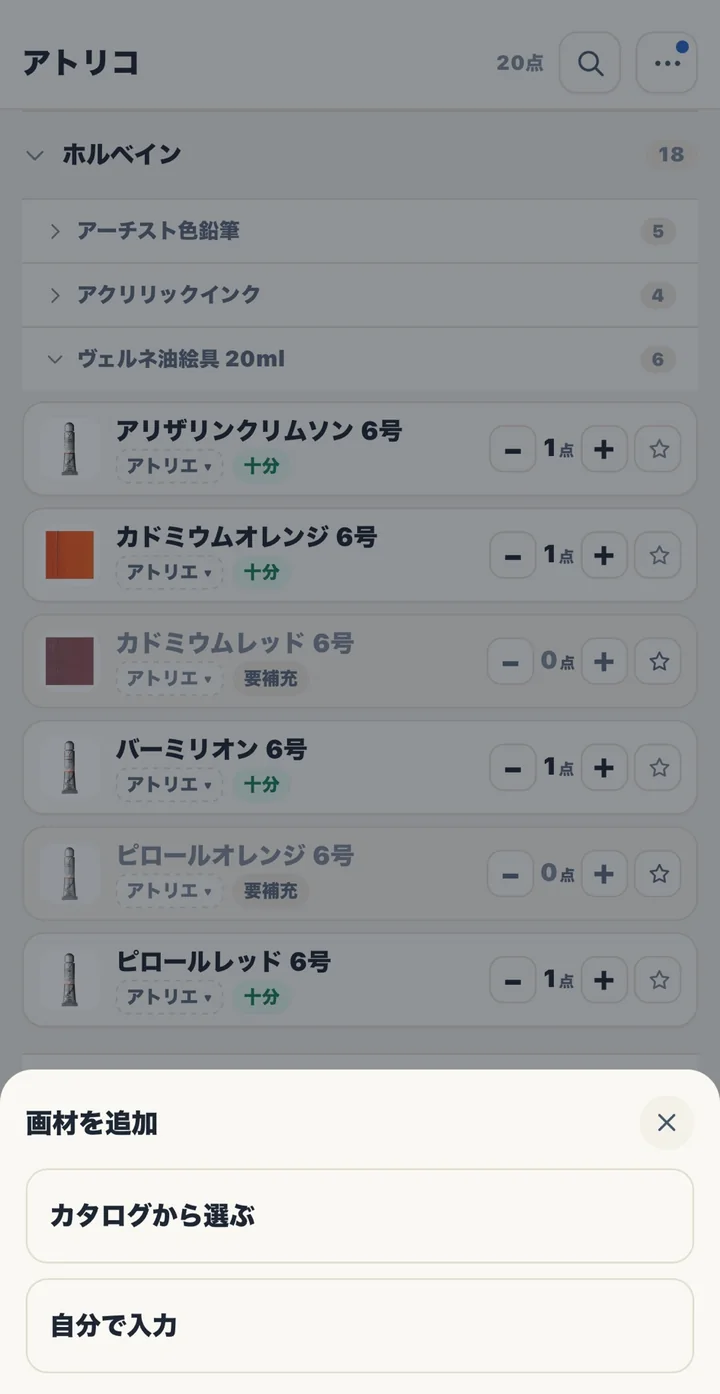
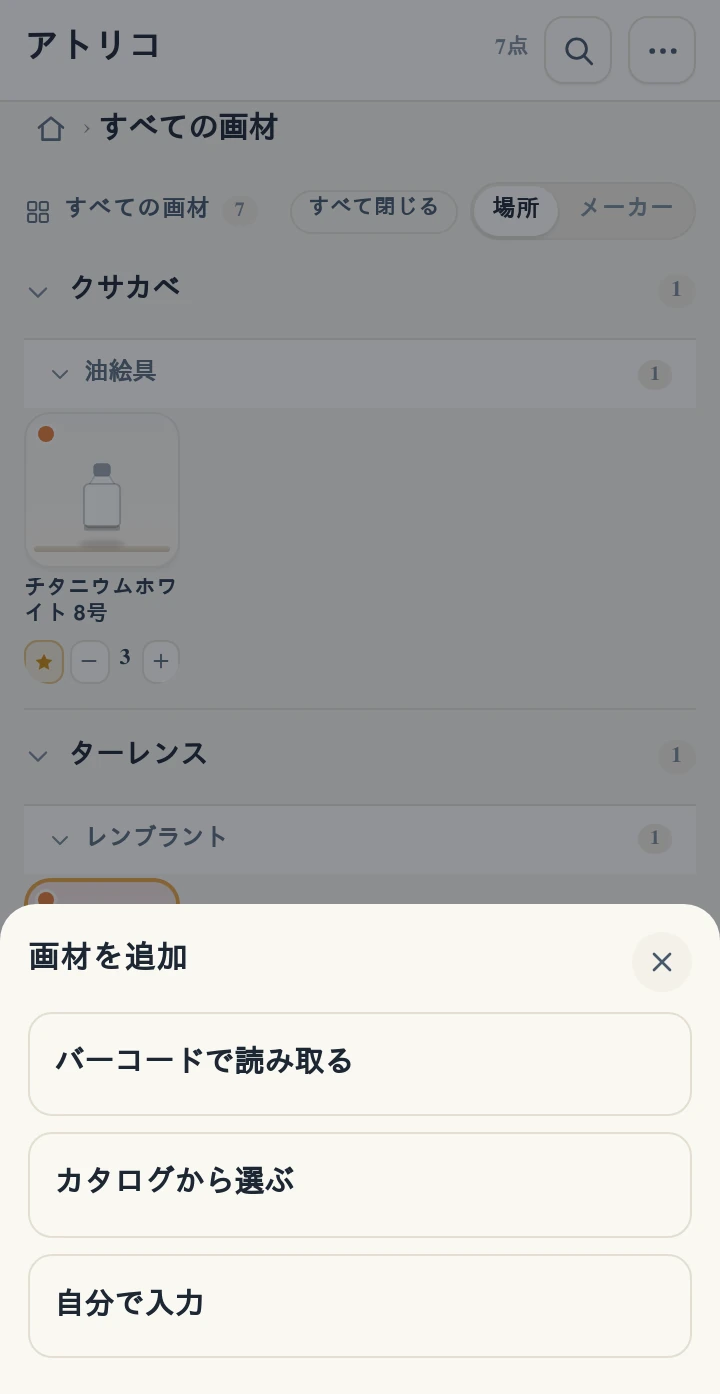
feat: 「画材を追加」の最上段にバーコードで読み取るを追加し、使い方の写真と説明を3択に（v1.41.0）
- ＋のシートの先頭に「バーコードで読み取る」。押すとシートを閉じ、右下の読取ボタンと同じ beginScan でカメラを開く（登録先フォルダも同じ）
- 使い方（stock-3）の説明を3択に更新し、画面写真を3択の版に撮り直し
- 版を v1.41.0 / Service Worker のキャッシュを v64 に

diff --git a/tests/add-scan-entry.test.js b/tests/add-scan-entry.test.js
@@ -1,0 +1,76 @@
+/**
+ * 「＋」の「画材を追加」シートに、バーコード読取の項目を足した（v1.41.0）。
+ *
+ * 見たいこと:
+ *   1. シートの最上段に「バーコードで読み取る」があり、既存の2択と同じ文字だけのボタン
+ *   2. 押すとシートを閉じてから、右下の読取ボタンと同じ処理（beginScan）でカメラが開く
+ *   3. チュートリアル（stock-3）の説明が3択に合っている
+ */
+import test from 'node:test';
+import assert from 'node:assert/strict';
+import fs from 'node:fs';
+import path from 'node:path';
+import { fileURLToPath } from 'node:url';
+import { TUTORIAL_TABS } from '../tutorial.js';
+
+const ROOT = path.resolve(path.dirname(fileURLToPath(import.meta.url)), '..');
+const read = (name) => fs.readFileSync(path.join(ROOT, name), 'utf8');
+const html = read('index.html');
+const app = read('app.js');
+const EMOJI = /[\u{1F000}-\u{1FAFF}\u{2600}-\u{27BF}\u{FE0F}]/u;
+
+const sheet = html.slice(html.indexOf('id="sheetAdd"'), html.indexOf('id="sheetMore"'));
+const listStart = sheet.indexOf('<div class="menulist">');
+const list = sheet.slice(listStart, sheet.indexOf('</div>', listStart));
+
+test('「画材を追加」シートの最上段に「バーコードで読み取る」がある（3択・上から順に）', () => {
+  const labels = [...list.matchAll(/<button type="button" class="menubtn" id="(btnAdd\w+)">([^<]*)<\/button>/g)]
+    .map((m) => [m[1], m[2]]);
+  assert.deepEqual(labels, [
+    ['btnAddScan', 'バーコードで読み取る'],
+    ['btnAddCatalog', 'カタログから選ぶ'],
+    ['btnAddManual', '自分で入力'],
+  ]);
+  // 追加の1行だけ（アイコン・補足は足さない。既存2択と同じ、文字だけのボタン）
+  assert.equal(/<svg|<small/.test(list), false, 'バーコードの項目にアイコン・補足が付いている');
+  assert.equal(EMOJI.test(list), false, '追加メニューに絵文字がある');
+  // シートの見出し・閉じるはこれまでどおり
+  assert.match(sheet, /<h2 id="addTitle">画材を追加/);
+  assert.match(sheet, /data-close="sheetAdd"/);
+});
+
+test('押すと「画材を追加」シートを閉じて、右下の読取ボタンと同じ処理でカメラを開く', () => {
+  const handler = /\$\('btnAddScan'\)\.addEventListener\('click', \(\) => \{([\s\S]{0,300}?)\n\}\);/.exec(app);
+  assert.ok(handler, 'バーコードの項目に、押したときの処理がない');
+  const body = handler[1];
+  assert.match(body, /closeSheet\('sheetAdd'\);/);
+  assert.match(body, /beginScan\(\);/);
+  assert.ok(
+    body.indexOf("closeSheet('sheetAdd')") < body.indexOf('beginScan()'),
+    'シートを閉じる前にカメラを開いている',
+  );
+
+  // 右下の読取ボタンと同じ beginScan を通る（置き場所＝いま見ているフォルダの決め方も同じ）
+  assert.match(app, /\$\('btnScan'\)\.addEventListener\('click', beginScan\);/);
+  const begin = /function beginScan\(\) \{([\s\S]*?)\n\}/.exec(app);
+  assert.ok(begin, 'beginScan（読取の共通処理）がない');
+  for (const step of [
+    /openSheet\('sheetScan'\)/, /resetScanSession\(scanSession\)/, /clearScanLog\(\)/,
+    /renderScanMode\(\)/, /startScanner\(\)/,
+  ]) {
+    assert.match(begin[1], step, '読取の共通処理に、これまでの手順が抜けている');
+  }
+  // シートを移るときは、前のシートを閉じてから次を開く（背景の暗幕が残らない）
+  assert.match(app, /function closeSheet\(id\) \{[\s\S]{0,220}openSheets\.delete\(id\);/);
+});
+
+test('チュートリアル（stock-3）の説明が3択に合っている', () => {
+  const slide = TUTORIAL_TABS.find((tab) => tab.id === 'stock').slides.find((s) => /stock-3\.webp$/.test(s.image));
+  assert.ok(slide, 'stock-3 のスライドがない');
+  for (const label of ['バーコードで読み取る', 'カタログから選ぶ', '自分で入力']) {
+    assert.ok(slide.caption.includes(label), `説明文に「${label}」がない: ${slide.caption}`);
+    assert.ok(slide.alt.includes(label), `alt に「${label}」がない: ${slide.alt}`);
+  }
+  assert.equal(/2択/.test(slide.caption + slide.alt), false, '2択のままになっている');
+  assert.ok(slide.caption.length <= 60, `説明が長い（${slide.caption.length}文字）`);
+});

diff --git a/tests/ui-tidy-v1_26.test.js b/tests/ui-tidy-v1_26.test.js
@@ -1,7 +1,8 @@
 /**
  * 画面の小さな整理（v1.26.0）。
  *
- *   1) 右下の「＋」は、いきなり入力シートを開かず「カタログから選ぶ / 自分で入力」の2択を出す
+ *   1) 右下の「＋」は、いきなり入力シートを開かず「バーコードで読み取る / カタログから選ぶ / 自分で入力」の3択を出す
+ *      （バーコードはv1.41.0で最上段に追加）
  *   2) ヘッダーの「全○種」は出さない
  *   3) 右上の虫眼鏡と⋯は「在庫」タブのときだけ
  *   4) パンくずのフォルダ名は読みやすい大きさ（15px）にする
@@ -19,26 +20,33 @@ const app = read('app.js');
 const html = read('index.html');
 const css = read('styles.css');
 
-/* ---------------- 1) ＋の2択メニュー ---------------- */
+/* ---------------- 1) ＋の3択メニュー ---------------- */
 
-test('「＋」は2択メニューを出し、カタログへ移る／入力シートを開くを選べる', () => {
+test('「＋」は3択メニューを出し、バーコード・カタログ・入力シートを選べる', () => {
   const sheet = html.slice(html.indexOf('id="sheetAdd"'), html.indexOf('id="sheetMore"'));
   assert.ok(sheet, '追加メニューのシートがありません');
   assert.match(sheet, /role="dialog"/);
   assert.match(sheet, /<div class="menulist">/);
+  // バーコードがいちばん上（追加のしかたの先頭）
+  assert.match(sheet, /<div class="menulist">\s*<button type="button" class="menubtn" id="btnAddScan">バーコードで読み取る<\/button>/);
   assert.match(sheet, /<button type="button" class="menubtn" id="btnAddCatalog">カタログから選ぶ<\/button>/);
   assert.match(sheet, /<button type="button" class="menubtn" id="btnAddManual">自分で入力<\/button>/);
+  // 並びは バーコード → カタログ → 自分で入力
+  assert.ok(sheet.indexOf('btnAddScan') < sheet.indexOf('btnAddCatalog'), 'バーコードがカタログより上にない');
+  assert.ok(sheet.indexOf('btnAddCatalog') < sheet.indexOf('btnAddManual'), 'カタログが自分で入力より上にない');
   // 閉じるボタンと背景タップ（#mask）で閉じられる
   assert.match(sheet, /data-close="sheetAdd"/);
   const mask = app.slice(app.indexOf("$('mask').addEventListener('click'"));
   assert.match(mask, /\[\.\.\.openSheets\]\.forEach\(closeSheet\)/);
-  // 余計な説明文・絵文字は入れない（ボタンの2行だけ）
+  // 余計な説明文・絵文字は入れない（ボタンの3行だけ）
   assert.equal(/[\u{1F000}-\u{1FAFF}\u{2600}-\u{27BF}\u{FE0F}]/u.test(sheet), false, '追加メニューに絵文字がある');
-  assert.equal((sheet.match(/<button/g) || []).length, 3, 'ボタンは 閉じる・2択 の3つだけ');
+  assert.equal((sheet.match(/<button/g) || []).length, 4, 'ボタンは 閉じる・3択 の4つだけ');
 
   // 押したときの動き
   assert.match(app, /\$\('btnAdd'\)\.addEventListener\('click', \(\) => openSheet\('sheetAdd'\)\);/);
   assert.equal(/btnAdd'\)\.addEventListener\('click', \(\) => openItemSheet/.test(app), false, '＋が直接シートを開いている');
+  // バーコードは、シートを閉じてから読取を始める（右下の読取ボタンと同じ処理）
+  assert.match(app, /\$\('btnAddScan'\)\.addEventListener\('click', \(\) => \{[\s\S]{0,140}closeSheet\('sheetAdd'\);[\s\S]{0,80}beginScan\(\);/);
   assert.match(app, /\$\('btnAddCatalog'\)\.addEventListener\('click', \(\) => \{[\s\S]{0,120}closeSheet\('sheetAdd'\);[\s\S]{0,80}selectTab\('catalog'\);/);
   assert.match(app, /\$\('btnAddManual'\)\.addEventListener\('click', \(\) => \{[\s\S]{0,120}closeSheet\('sheetAdd'\);[\s\S]{0,80}openItemSheet\(null\);/);
   // タブ切り替えは1か所（下タブも同じ処理を通る）

diff --git a/index.html b/index.html
@@ -15,7 +15,7 @@ try {
 } catch (e) { /* 保存が読めないときはライト */ }
 </script>
 <link rel="manifest" href="manifest.webmanifest">
-<link rel="stylesheet" href="styles.css?v=1.40.1">
+<link rel="stylesheet" href="styles.css?v=1.41.0">
 <link rel="icon" href="icon.svg" type="image/svg+xml">
 <link rel="apple-touch-icon" href="apple-touch-icon.png">
 </head>
@@ -372,10 +372,11 @@ try {
   <button data-tab="settings" aria-selected="false">設定</button>
 </nav>
 
-<!-- 右下の＋（追加のしかたを2つから選ぶ） -->
+<!-- 右下の＋（追加のしかたを3つから選ぶ。バーコードをいちばん上に） -->
 <div class="sheet" id="sheetAdd" role="dialog" aria-modal="true" aria-labelledby="addTitle">
   <h2 id="addTitle">画材を追加<button class="close" data-close="sheetAdd" aria-label="閉じる"><svg class="ic" aria-hidden="true"><use href="#i-close"/></svg></button></h2>
   <div class="menulist">
+    <button type="button" class="menubtn" id="btnAddScan">バーコードで読み取る</button>
     <button type="button" class="menubtn" id="btnAddCatalog">カタログから選ぶ</button>
     <button type="button" class="menubtn" id="btnAddManual">自分で入力</button>
   </div>
@@ -689,7 +690,7 @@ try {
 
 <div class="toast" id="toast" role="status" aria-live="polite"></div>
 <!-- 動きのライブラリは同梱（CDNから読まない）。app.js より先に読んで window.gsap を用意する -->
-<script src="vendor/gsap.min.js?v=1.40.1"></script>
-<script type="module" src="app.js?v=1.40.1"></script>
+<script src="vendor/gsap.min.js?v=1.41.0"></script>
+<script type="module" src="app.js?v=1.41.0"></script>
 </body>
 </html>

diff --git a/app.js b/app.js
@@ -2762,6 +2762,12 @@ $('btnAddManual').addEventListener('click', () => {
   closeSheet('sheetAdd');
   openItemSheet(null);
 });
+// 「バーコードで読み取る」は、シートを閉じてから右下の読取ボタンと同じ流れでカメラを開く
+// （登録先のフォルダも、右下から読んだときと同じ＝いま見ている場所）
+$('btnAddScan').addEventListener('click', () => {
+  closeSheet('sheetAdd');
+  beginScan();
+});
 
 // 空の一覧の「サンプルを入れる」・設定の「サンプルを入れる／消す」（ボタンは描き直されるので文書全体で受ける）
 document.addEventListener('click', (e) => {
@@ -3385,14 +3391,19 @@ let scanSwitchBusy = false; // カメラ切り替えの再起動中
 const SCAN_STOP_TIMEOUT_MS = 800; // スキャナの停止を待つ上限（止まらないときに詰まらせない）
 const SCAN_LOG_MAX = 5;     // 画面に出す直近件数
 
-$('btnScan').addEventListener('click', () => {
+/**
+ * バーコード読取を始める（右下の読取ボタンと「＋」の「バーコードで読み取る」の共通処理）。
+ * シートを開いてからカメラを起動するので、置き場所（フォルダ）もいつもと同じになる。
+ */
+function beginScan() {
   openSheet('sheetScan');
   $('manualJan').value = '';
   resetScanSession(scanSession);
   clearScanLog();
   renderScanMode();
   startScanner();
-});
+}
+$('btnScan').addEventListener('click', beginScan);
 $('btnRescan').addEventListener('click', () => { stopScanner(); startScanner(); });
 
 /* --- カメラの内／外切り替え（連続スキャンの状態とログはそのまま） --- */

diff --git a/tutorial.js b/tutorial.js
@@ -57,8 +57,8 @@ export const TUTORIAL_TABS = [
       },
       {
         image: `${TUTORIAL_ASSET_DIR}/stock-3.webp`,
-        alt: '＋を押したときに出る「カタログから選ぶ」と「自分で入力」の2択',
-        caption: '＋を押すと「カタログから選ぶ」か「自分で入力」を選べます。',
+        alt: '＋を押したときに出る「バーコードで読み取る」「カタログから選ぶ」「自分で入力」の3択',
+        caption: '＋を押すと「バーコードで読み取る」「カタログから選ぶ」「自分で入力」から選べます。',
         focus: FOCUS.bottom,
         ...SHOT,
       },

diff --git a/tests/theme.test.js b/tests/theme.test.js
@@ -204,7 +204,7 @@ test('画面: 設定にテーマ切替、描画前のテーマ適用、theme-col
 test('theme.js は配信・iOSビルド・Service Worker に入っている', async () => {
   const sw = read('sw.js');
   assert.match(sw, /'\.\/theme\.js'/);
-  assert.match(sw, /art-supply-manager-v63/);
+  assert.match(sw, /art-supply-manager-v64/);
   const { WEB_ASSETS } = await import('../scripts/build.mjs');
   assert.ok(WEB_ASSETS.includes('theme.js'), 'theme.js が WEB_ASSETS にありません');
   // iOSビルドの起動条件は app.js / index.html / styles.css の変更で走る（theme.js は build.mjs 経由で www/ へ入る）

diff --git a/tests/export-file.test.js b/tests/export-file.test.js
@@ -255,7 +255,7 @@ test('export-file.js は配布物とService Workerのキャッシュに入って
   assert.ok(fs.existsSync(path.join(ROOT, 'export-file.js')));
   assert.match(read('sw.js'), /'\.\/export-file\.js'/);
   // 新しいJSを確実に届けるためキャッシュ名も上げる
-  assert.match(read('sw.js'), /art-supply-manager-v63/);
+  assert.match(read('sw.js'), /art-supply-manager-v64/);
   // Falls back to 404 を避ける: index.html が読む版と package.json が一致
   const pkg = JSON.parse(read('package.json'));
   assert.match(read('index.html'), new RegExp(`app\\.js\\?v=${pkg.version.replace(/\./g, '\\.')}`));
